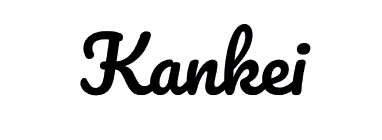
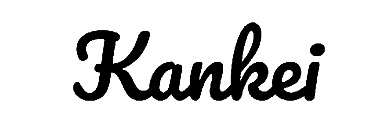
Chat system foundation + refined images
Chat system organized
Push notifications basic setup
Firebase configurations and debug tools
Cleaned photo quality + added app logo

diff --git a/lib/Chat/chat.dart b/lib/Chat/chat.dart
@@ -1,126 +1,82 @@
-import 'package:firebase_messaging/firebase_messaging.dart';
-import 'package:flutter/material.dart';
-import 'package:provider/provider.dart';
-import 'package:cloud_firestore/cloud_firestore.dart';
-import 'package:google_nav_bar/google_nav_bar.dart';
-import 'package:google_fonts/google_fonts.dart';
-
+import 'dart:convert';
+import 'dart:math';
 import '../../theme/theme_system.dart';
-import '../Chat/send_message.dart';
+import 'push_notifications.dart';
 import 'package:flutter/cupertino.dart';
-import 'package:flutter/material.dart';
 
-import '../components/my_textfield.dart';
-import 'package:chat_bubbles/chat_bubbles.dart';
+import 'package:flutter/material.dart';
+import 'package:flutter_chat_ui/flutter_chat_ui.dart';
+import 'package:flutter_chat_types/flutter_chat_types.dart' as types;
+import 'package:provider/provider.dart';
+
+String randomString() {
+  final random = Random.secure();
+  final values = List<int>.generate(16, (i) => random.nextInt(255));
+  return base64UrlEncode(values);
+}
 
 class ChatPage extends StatefulWidget {
+  const ChatPage({super.key});
+
   @override
-  _ChatPageState createState() => _ChatPageState();
+  State<ChatPage> createState() => _ChatPageState();
 }
 
 class _ChatPageState extends State<ChatPage> {
 
-  String? mtoken = " ";
+  void updateToken(String token) {
+    setState(() {
+      mtoken = token;
+      print('User token: $token');
+    });
+  }
 
   @override
   void initState() {
     super.initState();
     requestPermissions();
-    getToken();
+    getToken(updateToken);
+    initInfo();
   }
 
-  void requestPermissions() async {
-    FirebaseMessaging messaging = FirebaseMessaging.instance;
-    NotificationSettings settings = await messaging.requestPermission(
-      alert: true,
-      announcement: false,
-      badge: true,
-      carPlay: false,
-      criticalAlert: false,
-      provisional: false,
-      sound: true,
-    );
-
-    print('User granted permission for Firebase: ${settings.authorizationStatus}');
-
-  }
-
-  void getToken() async {
-    await FirebaseMessaging.instance.getToken().then(
-            (token) { setState(() {
-              mtoken = token;
-              print('User token: $token');
-            });
-              saveToken(token!);
-            }
-    );
-  }
-
-  void saveToken(String token) async {
-    await FirebaseFirestore.instance.collection("UserTokens").doc("UserTokens").set({
-      "token": token,
-    });
-  }
+  final List<types.Message> _messages = [];
+  final _user = const types.User(id: '82091008-a484-4a89-ae75-a22bf8d6f3ac');
 
   @override
   Widget build(BuildContext context) {
 
-    //Light or dark theme
+    //Dark or light theme
     final theme_provider = Provider.of<Theme_Provider>(context);
     bool isAppDarkMode = theme_provider.is_DarkMode;
-    final Brightness brightnessValue = MediaQuery
-        .of(context)
-        .platformBrightness;
+    final Brightness brightnessValue = MediaQuery.of(context).platformBrightness;
     bool isSystemDarkMode = brightnessValue == Brightness.dark;
     bool is_dark = isAppDarkMode || isSystemDarkMode;
 
-    List<String> chatMessages = [];
-    TextEditingController _messageController = TextEditingController();
-
     return Scaffold(
-      body: Column(
-        children: [
-          Expanded(
-            child: ListView.builder(
-              itemCount: chatMessages.length,
-              itemBuilder: (context, index) {
-                return ListTile(
-                  title: Text(chatMessages[index]),
-                );
-              },
-            ),
-          ),
-
-          Container(
-            padding: EdgeInsets.symmetric(horizontal: 10, vertical: 5),
-            child: Row(
-              children: [
-                IconButton( // Emoji button
-                  icon: Icon(CupertinoIcons.smiley),
-                  onPressed: () {
-                    // Handle emoji button press
-                  },
-                ),
-                Expanded(
-                  child: MyTextField( // Text input
-                    controller: TextEditingController(),
-                    hintText: 'Type here...',
-                    obscureText: false,
-                  ),
-                ),
-                IconButton( // Send button
-                  icon: Icon(CupertinoIcons.paperplane_fill),
-                  onPressed: () {
-                    sendMessage();
-                  },
-                ),
-              ],
-            ),
-          ),
-
-        ],
+      body: Chat(
+        theme: is_dark ? DarkChatTheme(backgroundColor: Colors.black, primaryColor: Color(0xFFb18dd7),sendButtonIcon: Icon(Icons.send, color: Color(0xFFb18dd7))) :
+        DefaultChatTheme( inputBackgroundColor: Color(0xFF726daf), primaryColor: Color(0xFFa894fc), inputTextCursorColor: Color(0xFFE1BEE7),sendButtonIcon: Icon(Icons.send, color: Color(0xFFE1BEE7))),
+        messages: _messages,
+        onSendPressed: _handleSendPressed,
+        user: _user,
       ),
     );
   }
-}
 
+  void _addMessage(types.Message message) {
+    setState(() {
+      _messages.insert(0, message);
+    });
+  }
+
+  void _handleSendPressed(types.PartialText message) {
+    final textMessage = types.TextMessage(
+      author: _user,
+      createdAt: DateTime.now().millisecondsSinceEpoch,
+      id: randomString(),
+      text: message.text,
+    );
+
+    _addMessage(textMessage);
+  }
+}

diff --git a/lib/Chat/push_notifications.dart b/lib/Chat/push_notifications.dart
@@ -1,0 +1,78 @@
+import 'package:flutter_local_notifications/flutter_local_notifications.dart';
+import 'package:firebase_messaging/firebase_messaging.dart';
+import 'package:cloud_firestore/cloud_firestore.dart';
+import 'package:kankei/theme/theme_system.dart';
+
+String? mtoken = " ";
+late FlutterLocalNotificationsPlugin flutterLocalNotificationsPlugin = FlutterLocalNotificationsPlugin();
+typedef TokenUpdateCallback = void Function(String token);
+
+void requestPermissions() async {
+  FirebaseMessaging messaging = FirebaseMessaging.instance;
+  NotificationSettings settings = await messaging.requestPermission(
+    alert: true,
+    announcement: false,
+    badge: true,
+    carPlay: false,
+    criticalAlert: false,
+    provisional: false,
+    sound: true,
+  );
+
+  print('User granted permission for Firebase: ${settings.authorizationStatus}');
+}
+
+void getToken(TokenUpdateCallback updateCallback) async {
+  String? token = await FirebaseMessaging.instance.getToken();
+  if (token != null) {
+    updateCallback(token);
+    saveToken(token);
+  }
+}
+
+void saveToken(String token) async {
+  await FirebaseFirestore.instance.collection("users").doc(currentUserUid).update({
+    "token": token,
+  });
+  print("Token saved");
+}
+
+void initInfo() {
+  var androidInitialize = const AndroidInitializationSettings('@drawable/clean_logo');
+  var iOSInitialize = const IOSInitializationSettings();
+  var initializationSettings = InitializationSettings(android: androidInitialize, iOS: iOSInitialize);
+  flutterLocalNotificationsPlugin.initialize(initializationSettings, onSelectNotification: (String? payload) async {
+    try {
+      if (payload != null && payload.isNotEmpty) {
+        // Handle notification payload
+      } else {
+        // Handle notification without payload
+      }
+    } catch (e) {
+      print(e);
+    }
+    return;
+  });
+
+  FirebaseMessaging.onMessage.listen((RemoteMessage message) async {
+    print('\n\n\nGot a message whilst in the foreground!');
+    print('Message data: ${message.notification?.title}/${message.notification?.body}');
+
+    BigTextStyleInformation bigTextStyleInformation = BigTextStyleInformation(
+      message.notification!.body.toString(),
+      htmlFormatBigText: true,
+      contentTitle: message.notification!.title.toString(),
+      htmlFormatContentTitle: true,
+    );
+    AndroidNotificationDetails androidPlatformChannelSpecifics = AndroidNotificationDetails(
+      'dbfood',
+      'dbfood',
+      importance: Importance.max,
+      playSound: true,
+      priority: Priority.high,
+      styleInformation: bigTextStyleInformation,
+    );
+    NotificationDetails platformChannelSpecifics = NotificationDetails(android: androidPlatformChannelSpecifics, iOS: const IOSNotificationDetails());
+    await flutterLocalNotificationsPlugin.show(0, message.notification?.title, message.notification?.body, platformChannelSpecifics, payload: message.data['title']);
+  });
+}

diff --git a/lib/theme/theme_system.dart b/lib/theme/theme_system.dart
@@ -1,3 +1,4 @@
+import 'package:firebase_auth/firebase_auth.dart';
 import 'package:flutter/material.dart';
 import '../../app_colors.dart';
 
@@ -56,14 +57,11 @@ class Theme_Provider extends ChangeNotifier {
 }
 class MyThemes {
 
-
   static final dark_theme = ThemeData(
     scaffoldBackgroundColor: AppColors.dark_background,
     primarySwatch: dark_primary_color,
     colorScheme: ColorScheme.dark(),
-
   );
-
 
   static final light_theme = ThemeData(
     scaffoldBackgroundColor: Colors.white,
@@ -72,3 +70,5 @@ class MyThemes {
 
   );
 }
+
+String? currentUserUid = FirebaseAuth.instance.currentUser?.uid;
